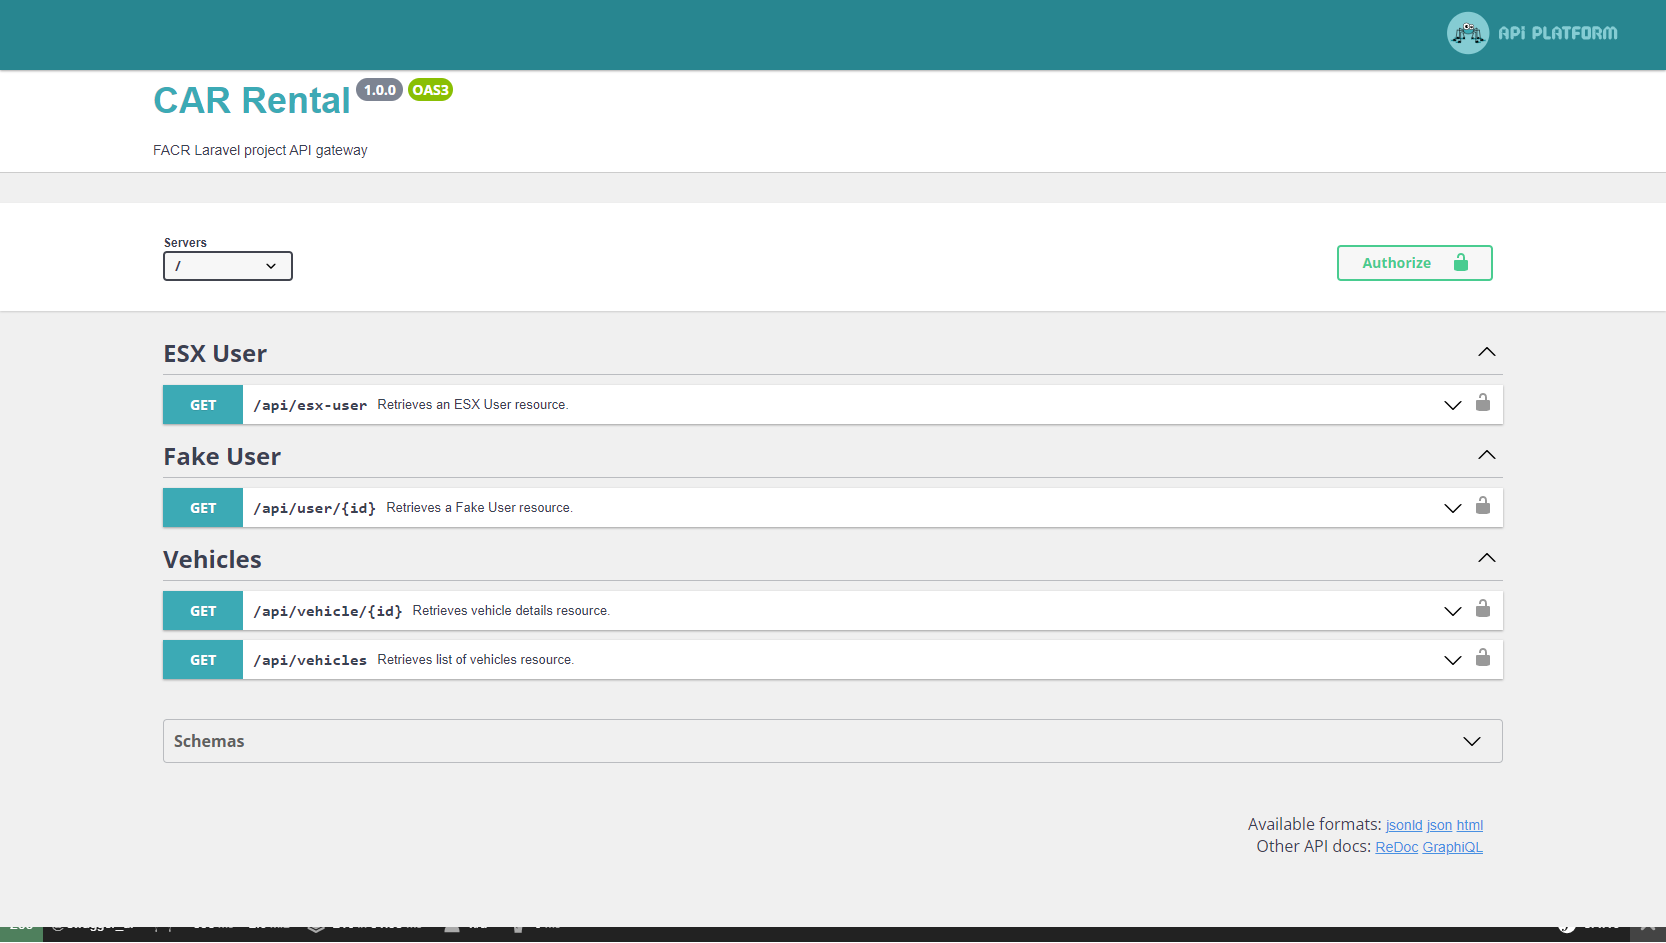
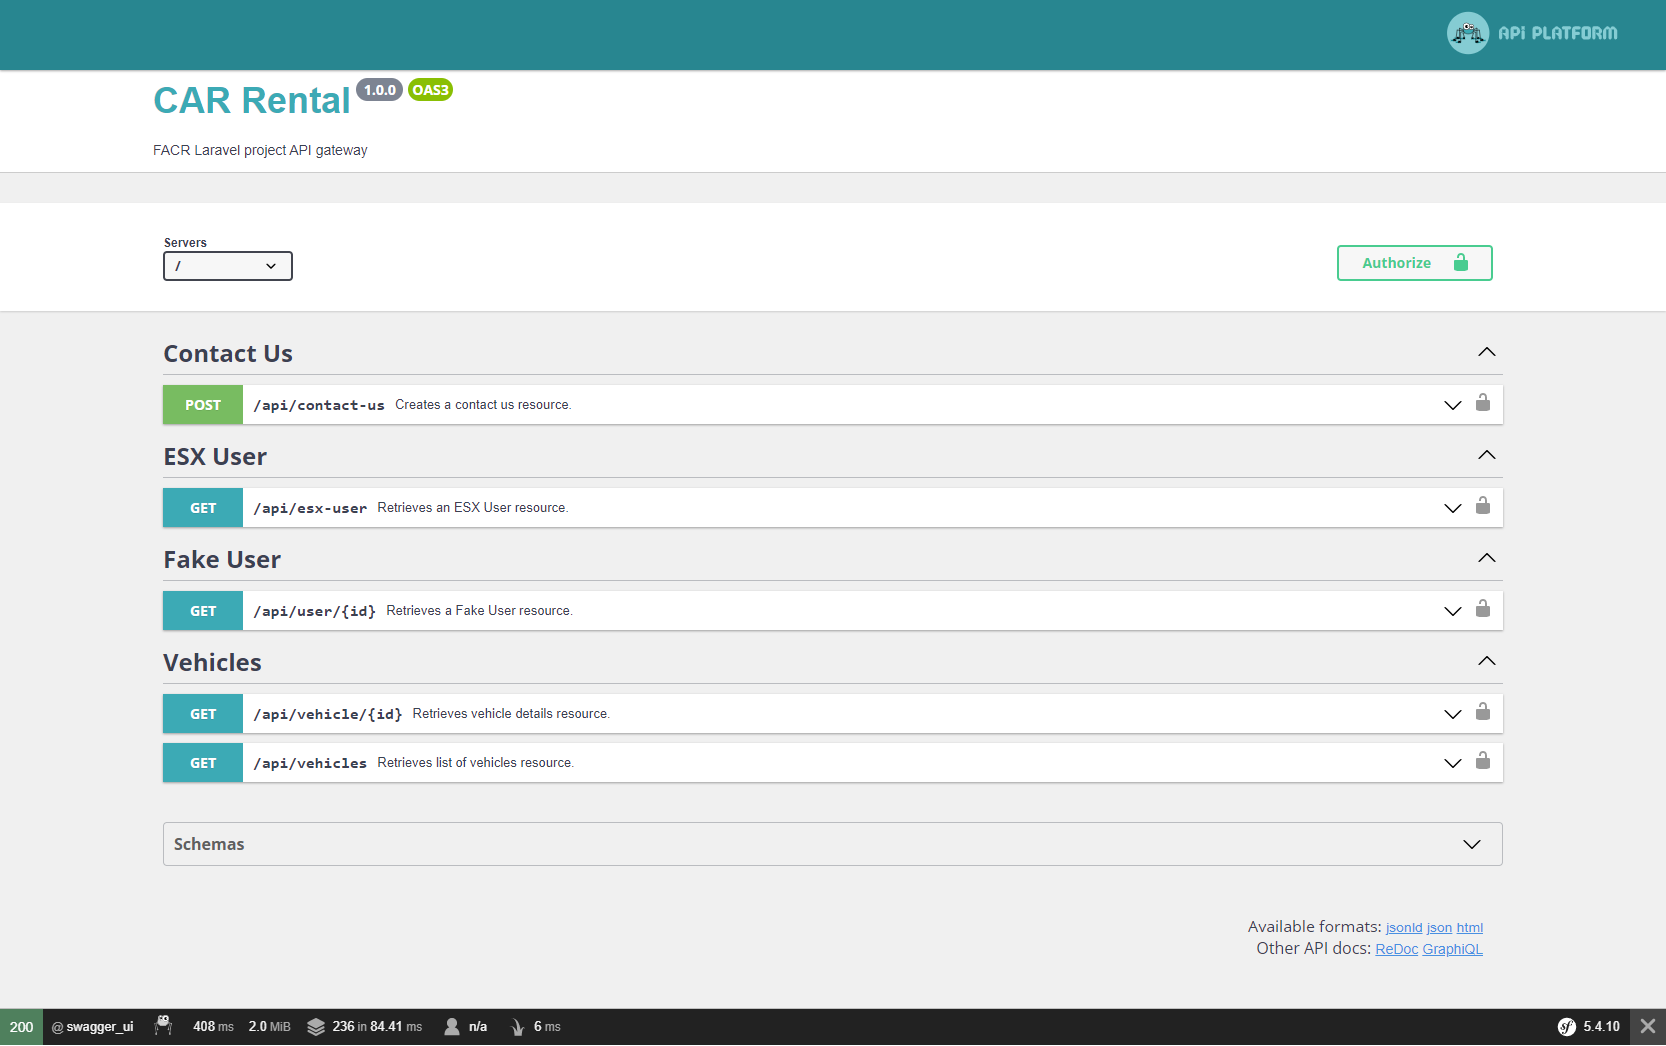
POST /contact-us & fixes

diff --git a/src/ApiResources/Contact.php b/src/ApiResources/Contact.php
@@ -1,0 +1,64 @@
+<?php
+
+namespace App\ApiResources;
+
+use ApiPlatform\Core\Annotation\ApiProperty;
+use ApiPlatform\Core\Annotation\ApiResource;
+
+/**
+ * @ApiResource(
+ *     shortName="Contact Us",
+ *     collectionOperations={
+ *          "post_contact": {
+ *              "route_name"="api_contact_post_collection",
+ *              "path"="contact-us",
+ *              "method"="POST",
+ *              "openapi_context"={
+ *                  "summary"="Creates a contact us resource.",
+ *                  "description"="It creates a contact us resource.",
+ *                  "requestBody": {
+ *                      "content": {
+ *                          "application/json": {
+ *                              "schema": {
+ *                                  "type": "object",
+ *                                  "properties": {
+ *                                      "full_name": {"type": "string", "example": "John Doe"},
+ *                                      "phone ": {"type": "string", "example": "+230 5555 5555"},
+ *                                      "email": {"type": "string", "example": "johndoe@gmail.com"},
+ *                                      "message": {"type": "string", "example": "Lorem ipsum dolor sit amet, consectetur adipiscing elit. Curabitur commodo lectus risus. Vestibulum cursus arcu vel condimentum euismod. Sed nec erat eu sem mattis porta."}
+ *                                  },
+ *                              },
+ *                          },
+ *                      },
+ *                  },
+ *              }
+ *          }
+ *     },
+ *     itemOperations={}
+ * )
+ */
+class Contact
+{
+    /**
+     * @var string
+     * @ApiProperty(
+     *     attributes={
+     *         "openapi_context"={
+     *             "type"="string",
+     *             "example"="Thank you for contacting us !"
+     *         }
+     *     }
+     * )
+     */
+    private $message;
+
+    public function __construct(string $message)
+    {
+        $this->message = $message;
+    }
+
+    public function getMessage(): string
+    {
+        return $this->message;
+    }
+}

diff --git a/src/Controller/Contact/CreateContactController.php b/src/Controller/Contact/CreateContactController.php
@@ -1,0 +1,49 @@
+<?php
+
+namespace App\Controller\Contact;
+
+use App\ApiResources\Contact;
+use App\Dto\CreateContact;
+use App\Repository\ContactRepository;
+use Symfony\Bundle\FrameworkBundle\Controller\AbstractController;
+use Symfony\Component\HttpFoundation\JsonResponse;
+use Symfony\Component\HttpFoundation\Request;
+use Symfony\Component\HttpFoundation\Response;
+use Symfony\Component\HttpKernel\Exception\UnprocessableEntityHttpException;
+use Symfony\Component\Routing\Annotation\Route;
+use Symfony\Component\Serializer\SerializerInterface;
+
+class CreateContactController extends AbstractController
+{
+    private $contactRepository;
+
+    public function __construct(ContactRepository $contactRepository)
+    {
+        $this->contactRepository = $contactRepository;
+    }
+
+    /**
+     * @Route(
+     *      name="api_contact_post_collection",
+     *      path="/api/contact-us",
+     *      methods={"POST"},
+     *      defaults={
+     *          "_api_resource_class"=Contact::class,
+     *          "_api_item_collection_name"="post_contact",
+     *      }
+     * )
+     */
+    public function __invoke(Request $request, SerializerInterface $serializer): JsonResponse
+    {
+        $createContactObject = $serializer->deserialize($request->getContent(), CreateContact::class, 'json');
+        $persistedObj = $this->contactRepository->persist($createContactObject);
+
+        if ((int) $persistedObj) {
+            return $this->json([
+                'message' => 'Thank you for contacting us !',
+            ], Response::HTTP_CREATED);
+        }
+
+        throw new UnprocessableEntityHttpException('Nothing was persisted in DB !');
+    }
+}

diff --git a/src/Repository/ContactRepository.php b/src/Repository/ContactRepository.php
@@ -1,0 +1,45 @@
+<?php
+
+namespace App\Repository;
+
+use App\Dto\CreateContact;
+use Doctrine\ORM\EntityManagerInterface;
+use Symfony\Component\HttpFoundation\RequestStack;
+
+class ContactRepository
+{
+    private $entityManager;
+
+    private $requestStack;
+
+    public function __construct(EntityManagerInterface $entityManager, RequestStack $requestStack)
+    {
+        $this->entityManager = $entityManager;
+        $this->requestStack = $requestStack;
+    }
+
+    public function persist(CreateContact $contact)
+    {
+        $ip = (null !== $this->requestStack->getCurrentRequest())
+            ? $this->requestStack->getCurrentRequest()->getClientIp()
+            : null
+        ;
+
+        $cnx = $this->entityManager->getConnection();
+        $sql = '
+            INSERT INTO contact (fname, email, phone, msg, ip_addr) 
+            VALUES (:fname, :email, :phone, :msg, :ip_addr)
+        ';
+
+        $stmt = $cnx->prepare($sql);
+        $stmt->bindValue(':fname', $contact->getFullName());
+        $stmt->bindValue(':email', $contact->getEmail());
+        $stmt->bindValue(':phone', $contact->getPhone());
+        $stmt->bindValue(':msg', $contact->getMessage());
+        $stmt->bindValue(':ip_addr', $ip);
+
+        $stmt->executeStatement();
+
+        return $cnx->lastInsertId();
+    }
+}

diff --git a/src/Dto/CreateContact.php b/src/Dto/CreateContact.php
@@ -1,0 +1,65 @@
+<?php
+
+namespace App\Dto;
+
+class CreateContact
+{
+    /**
+     * @var string|null
+     */
+    private $fullName;
+
+    /**
+     * @var string|null
+     */
+    private $phone;
+
+    /**
+     * @var string|null
+     */
+    private $email;
+
+    /**
+     * @var string|null
+     */
+    private $message;
+
+    /**
+     * @var string|null
+     */
+    private $ipAddress;
+
+    public function __construct(?string $fullName, ?string $phone, ?string $email, ?string $message, ?string $ipAddress)
+    {
+        $this->fullName = $fullName;
+        $this->phone = $phone;
+        $this->email = $email;
+        $this->message = $message;
+        $this->ipAddress = $ipAddress;
+    }
+
+    public function getFullName(): ?string
+    {
+        return $this->fullName;
+    }
+
+    public function getPhone(): ?string
+    {
+        return $this->phone;
+    }
+
+    public function getEmail(): ?string
+    {
+        return $this->email;
+    }
+
+    public function getMessage(): ?string
+    {
+        return $this->message;
+    }
+
+    public function getIpAddress(): ?string
+    {
+        return $this->ipAddress;
+    }
+}

diff --git a/src/EventSubscriber/ClientVerifierSubscriber.php b/src/EventSubscriber/ClientVerifierSubscriber.php
@@ -19,6 +19,11 @@ class ClientVerifierSubscriber implements EventSubscriberInterface
 
     public function onKernelRequest(RequestEvent $event)
     {
+        // Excluding SF profiler for token verifier
+        if (stripos($event->getRequest()->getRequestUri(), '_profiler')) {
+            return;
+        }
+
         if (!stripos($event->getRequest()->getRequestUri(), 'api')) {
             return;
         }

diff --git a/README.md b/README.md
@@ -44,6 +44,61 @@ services:
 - - Create `.php-cs-fixer.dist.php` if not present
 - - RUN `./vendor/bin/php-cs-fixer fix --dry-run --verbose --config=.php-cs-fixer.dist.php src` : List all issues in code
 - - RUN `./vendor/bin/php-cs-fixer fix --verbose --config=.php-cs-fixer.dist.php src` : Fix all issues
+- POST / PUT for complex object schema
+```
+ *      collectionOperations={
+ *          "post_contact": {
+ *              "route_name"="",
+ *              "path"="",
+ *              "method"="",
+ *              "openapi_context"={
+ *                  "summary"="",
+ *                  "description"="",
+ *                  "requestBody": {
+ *                      "content": {
+ *                          "application/json": {
+ *                              "schema": {
+ *                                  "type": "object",
+ *                                  "properties": {
+ *                                      "email": {"type": "string", "example": "owner@email.com"},
+ *                                      "name": {"type": "string", "example": "FX Inc."},
+ *                                      "address": {"type": "string", "example": "123 Rue Jkl Collorado", "nullable": true},
+ *                                      "address_junction": {
+ *                                          "type": "array",
+ *                                          "nullable": true,
+ *                                          "items": {
+ *                                              "type":"string", "example":"96KB", "nullable": true
+ *                                          }
+ *                                       },
+ *                                      "address_city": {"type": "string", "example": "Sillicon Valley", "nullable": true},
+ *                                      "phone": {"type": "string", "example": "05 04 03 02 01" ,"nullable": true},
+ *                                      "type": {"type": "string", "example": "1-2-3", "nullable": true, "enum": {"1-2-3", "4-5", "other", "player-1", "multi-player"}},
+ *                                      "any_date": {"type": "string", "example": "2025-01-01", "nullable": true},
+ *                                      "levels": {"type": "integer", "example": 100, "nullable": true},
+ *                                      "contacts": {
+ *                                          "type": "array",
+ *                                          "nullable": true,
+ *                                          "items": {
+ *                                              "type":"object",
+ *                                              "properties": {
+ *                                                  "firstname": {"type": "string", "example": "John", "nullable": true},
+ *                                                  "lastname": {"type": "string", "example": "Doe", "nullable": true},
+ *                                                  "phone": {"type": "string", "example": "02 04 02 05 01", "nullable": true},
+ *                                                  "email": {"type": "string", "example": "contact@email.com", "nullable": true},
+ *                                              }
+ *                                          }
+ *                                      },
+ *                                      "comment": {"type": "string", "example": "Commentaire en cours !", "nullable": true},
+ *                                  },
+ *                              },
+ *                          },
+ *                      },
+ *                  },
+ *              }
+ *          }
+ *     },
+```
+- **POST** `/contact-us` : Customized JSON body in `src/ApiResources/Contact.php` and Controller `src/Controller/Contact/CreateContactController.php` persisting contact in DB
 
 # Docs
 
